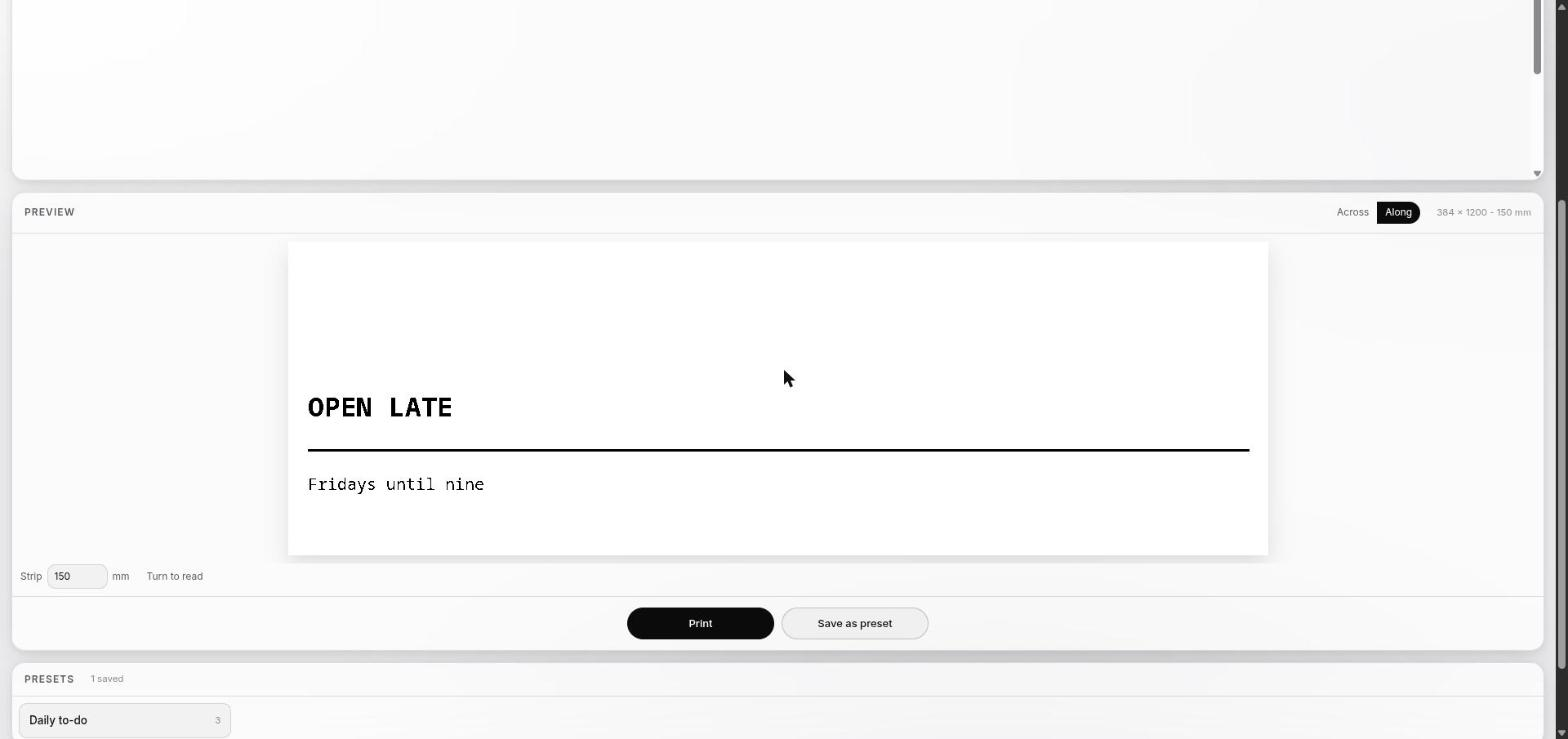
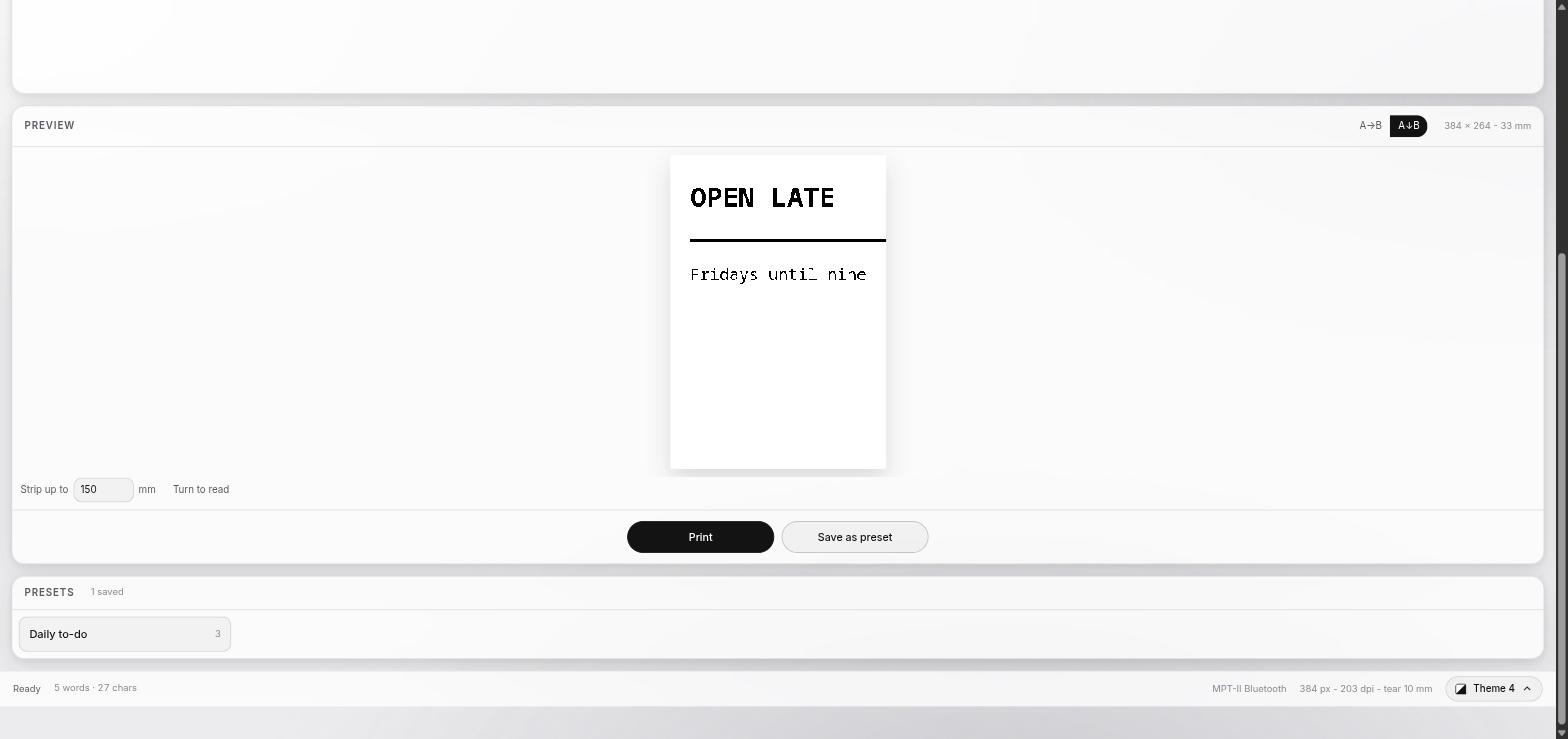
Refresh the screenshots
Every one of them showed an interface that no longer exists: the old toolbar,
the table strip, Across and Along spelled out, tables stretched across the
page. Two are new, for the table ribbon and the symbol picker, since both are
easier to show than to describe.

Claude-Session: https://claude.ai/code/session_01GouJWh6z2mz7zRPYXHuHD1

diff --git a/docs/usage.md b/docs/usage.md
@@ -30,6 +30,8 @@ never light up. Rarely used insertions live behind **More**.
 
 ### Tables
 
+![A table with its ribbon, and the same table on paper](images/tables.jpg)
+
 Put the caret in a table and its controls appear on the table itself: a plus at
 the right edge adds a column, a plus under the bottom left adds a row, and
 **Table** opens the properties panel with borders, column alignment, column
@@ -53,6 +55,8 @@ markdown syntax, so they are written as a directive comment above the table:
 ```
 
 ### Symbols
+
+![Searching the symbol table](images/symbols.jpg)
 
 The Omega button opens a picker over nine hundred glyphs: mathematics, Greek,
 arrows, set theory, shapes, units. Searching by name or by use ("integral",
